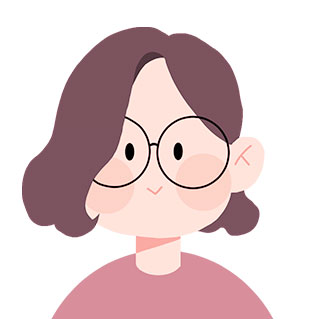
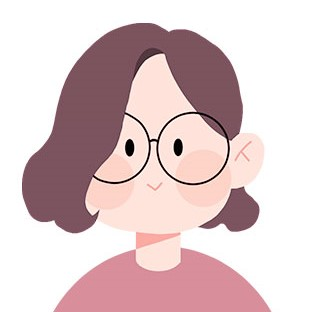
프로필 이미지 추가

diff --git a/src/components/Profile.tsx b/src/components/Profile.tsx
@@ -1,17 +1,26 @@
+'use client'
 import Image from 'next/image';
 import Link from 'next/link';
-import React from 'react';
+import React, { useState } from 'react';
 import profileImage from '../../public/images/profile_imge.jpg';
+import profileImageReal from '../../public/images/profile_image_real.jpg';
 
 
 
 export default function Profile() {
+    const [isHovering, setIsHovered] = useState(false);
+    const onMouseEnter = () => setIsHovered(true);
+    const onMouseLeave = () => setIsHovered(false);
     return (
         // <div className='flex items-center flex-col w-1/4 m-auto min-w-36'>
-        <div className='flex justify-center w-9/12 m-auto'>
+        <div className='flex justify-center w-9/12 m-auto rounded-full overflow-hidden border'>
 
-            <Image src={profileImage} alt='profile' className='rounded-full overflow-hidden border'
+            <Image src={isHovering ? profileImageReal : profileImage} alt='profile' className='w-full h-full'
+                width={312} height={312}
+                onMouseEnter={onMouseEnter}
+                onMouseLeave={onMouseLeave}
                 priority />
+
             {/* <strong>Pyeon So Yeong</strong>
             <p className='text-gray-500 '>Front engineer</p> */}
             {/* <Link href="/contact">
